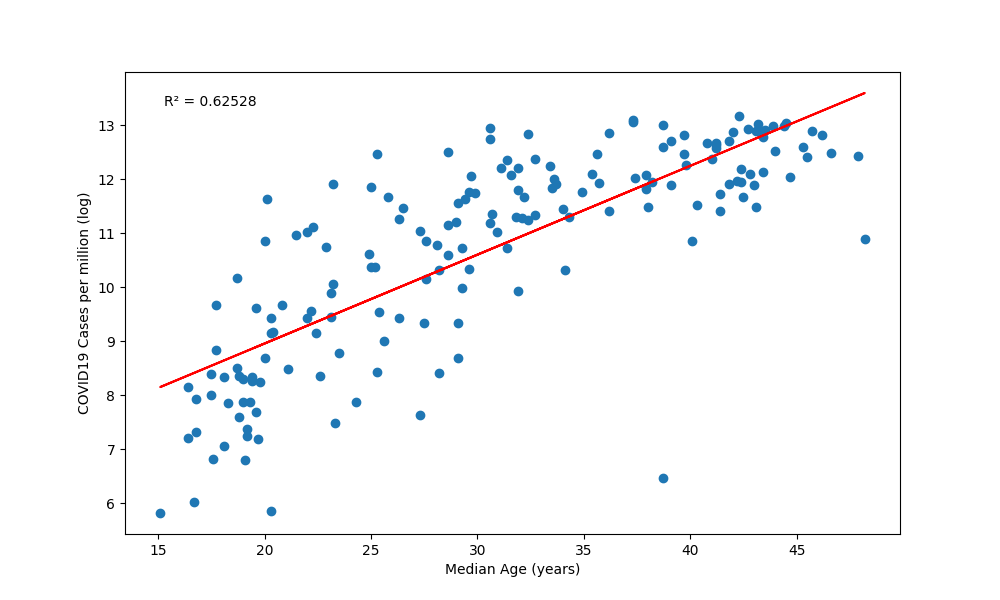
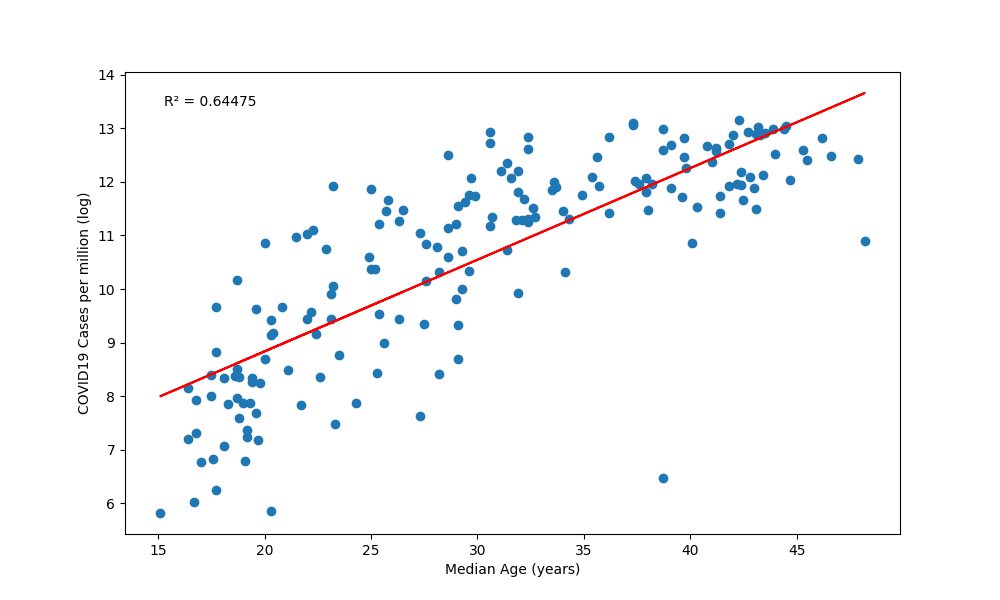
feat(ANALYSIS): Dynamic Date Changes - added clear_results.sh - re-selected countries - added country name mapping to git - changed setup_environment.sh

diff --git a/ANALYSIS/COUNTRIES.py b/ANALYSIS/COUNTRIES.py
@@ -1,1 +1,17 @@
-COUNTRIES = ['africa', 'albania', 'algeria', 'angola', 'antigua and barbuda', 'argentina', 'armenia', 'aruba', 'asia', 'australia', 'austria', 'azerbaijan', 'bahamas', 'bahrain', 'bangladesh', 'barbados', 'belarus', 'belgium', 'belize', 'benin', 'bhutan', 'bosnia and herzegovina', 'botswana', 'brazil', 'bulgaria', 'burkina faso', 'burundi', 'cambodia', 'cameroon', 'canada', 'central african republic', 'chad', 'chile', 'china', 'colombia', 'comoros', 'congo', 'costa rica', 'croatia', 'cuba', 'cyprus', 'czechia', 'denmark', 'djibouti', 'dominican republic', 'ecuador', 'egypt', 'el salvador', 'equatorial guinea', 'eritrea', 'estonia', 'eswatini', 'ethiopia', 'europe', 'fiji', 'finland', 'france', 'french guiana', 'french polynesia', 'gabon', 'gambia', 'georgia', 'germany', 'ghana', 'greece', 'grenada', 'guadeloupe', 'guam', 'guatemala', 'guinea', 'guinea-bissau', 'guyana', 'haiti', 'honduras', 'hungary', 'iceland', 'india', 'indonesia', 'iraq', 'ireland', 'israel', 'italy', 'jamaica', 'japan', 'jordan', 'kazakhstan', 'kenya', 'kiribati', 'kuwait', 'kyrgyzstan', 'latvia', 'lebanon', 'lesotho', 'liberia', 'libya', 'lithuania', 'luxembourg', 'madagascar', 'malawi', 'malaysia', 'maldives', 'mali', 'malta', 'martinique', 'mauritania', 'mauritius', 'mayotte', 'mexico', 'mongolia', 'montenegro', 'morocco', 'mozambique', 'myanmar', 'namibia', 'nepal', 'netherlands', 'new caledonia', 'new zealand', 'nicaragua', 'niger', 'nigeria', 'north macedonia', 'norway', 'oceania', 'oman', 'pakistan', 'panama', 'papua new guinea', 'paraguay', 'peru', 'philippines', 'poland', 'portugal', 'puerto rico', 'qatar', 'romania', 'rwanda', 'saint lucia', 'saint vincent and the grenadines', 'samoa', 'sao tome and principe', 'saudi arabia', 'senegal', 'serbia', 'seychelles', 'sierra leone', 'singapore', 'slovakia', 'slovenia', 'solomon islands', 'somalia', 'south africa', 'south america', 'south sudan', 'spain', 'sri lanka', 'sudan', 'suriname', 'sweden', 'switzerland', 'tajikistan', 'thailand', 'togo', 'tonga', 'trinidad and tobago', 'tunisia', 'turkey', 'turkmenistan', 'uganda', 'ukraine', 'united arab emirates', 'united kingdom', 'united states virgin islands', 'uruguay', 'uzbekistan', 'vanuatu', 'world', 'yemen', 'zambia', 'zimbabwe']
+import pandas as pd
+import os
+import sys
+
+sys.path.append(os.path.abspath(os.path.dirname(os.path.dirname(__file__))))
+
+COUNTRY_DATA = pd.read_csv("DATA/countries/country_names_map.csv")
+
+def mapping_name(name:str):
+    name = name.lower()
+    if name in COUNTRY_DATA['death_data'].values:
+        name = COUNTRY_DATA[COUNTRY_DATA['death_data'] == name]['Country'].values[0]
+    elif name in COUNTRY_DATA["location"].values:
+        name = COUNTRY_DATA[COUNTRY_DATA['location'] == name]['Country'].values[0]
+    elif name not in COUNTRY_DATA['Country'].values:
+        return None
+    return name

diff --git a/ANALYSIS/main.py b/ANALYSIS/main.py
@@ -10,51 +10,51 @@ from Plot_Population_Data import PLOT_POPULATION_DATA
 from Pop_Stat_Calculation import POP_STAT_CALCULATION
 from Plot_Pop_Stat import PLOT_POP_STAT
 from Plot_other_Metrics import PLOT_OTHER_METRICS
-
-COUNTRY_DATA_PATH = os.path.join(main_dir, 'Data\\countries\\country_names.csv')
+from Population_Data_For_Date import POPULATION_DATA_FOR_DATE
 
 class ANALYSIS:
     def __init__(self):
         self.REFERENCE_COUNTRY = 'japan'
-    def construct_countries(self):
-        data = pd.read_csv(COUNTRY_DATA_PATH).iloc[:, 0]
-        countries = []
-        for country in data:
-            if not country:
-                continue
-            countries.append(country.lower())
+        self.common_countries = []
 
-        with open(os.path.join(main_dir, 'ANALYSIS\\COUNTRIES.py'), 'w') as f:
-            f.write(f'COUNTRIES = {countries}')
+    @staticmethod
+    def create_country_population_data():
+        date = input("Date in YYYY or Press Enter to set year as 2020 : ")
+        if date == "":
+            date = '2020'
+        POPULATION_DATA_FOR_DATE(date)
 
-    def create_country_data(self):
+    @staticmethod
+    def create_country_covid_data():
         DATE_AS_PER_PAPER = '2022-04-08'
         date = input(f"Date in YYYY-MM-DD or Press Enter to set date as {DATE_AS_PER_PAPER} : ")
         if date == "":
             date = DATE_AS_PER_PAPER
         COVID_DATA_FOR_DATE(date)
 
-    def plot_population_data(self):
+    @staticmethod
+    def plot_population_data():
         plotter = PLOT_POPULATION_DATA()
         plotter.run()
+
+    def plot_other_metrics(self):
+        plotter = PLOT_OTHER_METRICS(self.common_countries)
+        plotter.MEDIAN_AGE()
+        plotter.GDP_PER_CAPITA()
+        plotter.POPULATION_DENSITY()
 
     def calculate_pop_stat(self):
         calculator = POP_STAT_CALCULATION()
         self.REFERENCE_COUNTRY = calculator.run()
+        self.common_countries = calculator.common_countries
 
     def plot_pop_stat(self):
         plotter = PLOT_POP_STAT(self.REFERENCE_COUNTRY)
         plotter.run()
 
-    def plot_other_metrics(self):
-        plotter = PLOT_OTHER_METRICS()
-        plotter.MEDIAN_AGE()
-        plotter.GDP_PER_CAPITA()
-        plotter.POPULATION_DENSITY()
-
     def run(self):
-        self.construct_countries()
-        self.create_country_data()
+        self.create_country_population_data()
+        self.create_country_covid_data()
         self.plot_population_data()
         self.calculate_pop_stat()
         self.plot_pop_stat()

diff --git a/ANALYSIS/Population_Data_For_Date.py b/ANALYSIS/Population_Data_For_Date.py
@@ -1,8 +1,3 @@
-"""
-NOT YET FULLY IMPLEMENTED
-    ISSUES : Country names in the population data and COVID data are not matching.
-           : Population data has other data like population of ASIA, EUROPE, etc.
-"""
 import pandas as pd
 import os
 import sys
@@ -11,17 +6,20 @@ main_dir = os.path.abspath(os.path.dirname(os.path.dirname(__file__)))
 
 sys.path.append(main_dir)
 
-from ANALYSIS.COUNTRIES import COUNTRIES
+from ANALYSIS.COUNTRIES import mapping_name
 
 age_data = pd.read_csv('Data\\population_data_with_age\\age_data.csv', low_memory = False)
-saving_dir = os.path.join(main_dir, "Data\\population_data")
+saving_dir = os.path.join(main_dir, "Data\\population_data_by_country")
 
-AGE_BRACKETS = 21
 
 def POPULATION_DATA_FOR_DATE(date):
     data = age_data[age_data['Time'] == int(date)]
-    for country in COUNTRIES:
-        data_new = data[data['Location'].str.lower() == country]
+    for country in data['Location'].unique():
+        pre_name = country
+        country = mapping_name(country)
+        if country is None:
+            continue
+        data_new = data[data['Location'] == pre_name]
         
         data_new = data_new.drop(columns = ['LocID'])
         data_new = data_new.drop_duplicates()
@@ -29,7 +27,7 @@ def POPULATION_DATA_FOR_DATE(date):
         data_new = data_new[['PopMale', 'PopFemale', 'PopTotal']]
         data_new.rename(columns = {'PopMale':'male', 'PopFemale':'female', 'PopTotal':'total'}, inplace = True)
 
-        data_new.to_csv(os.path.join(saving_dir, f'{country}_population_data.csv'), index = False)
+        data_new.to_csv(os.path.join(saving_dir, f'{country}_population.csv'), index = False)
         print(f"{country} data saved successfully for {date}")
         
 

diff --git a/ANALYSIS/Covid_Data_For_Date.py b/ANALYSIS/Covid_Data_For_Date.py
@@ -6,22 +6,25 @@ main_dir = os.path.abspath(os.path.dirname(os.path.dirname(__file__)))
 
 sys.path.append(main_dir)
 
+from ANALYSIS.COUNTRIES import mapping_name
+
 owid_covid_data = pd.read_csv('Data\\owid_covid_data\\owid-covid-data.csv', low_memory = False)
 saving_dir = os.path.join(main_dir, "Data\\covid_data_by_country")
 
-COUNTRIES = []
 
 def COVID_DATA_FOR_DATE(date):
+    count = 0
     data_per_date = owid_covid_data[owid_covid_data['date'] == date]
     for country in data_per_date['location'].unique():
         data_per_country = data_per_date[data_per_date['location'] == country]
-        COUNTRIES.append(country.lower())
+        pre_name = country
+        country = mapping_name(country)
+        if country is None:
+            print(f"Country not found in the mapping : {pre_name}")
+            continue
         data_per_country.to_csv(os.path.join(saving_dir, f'{country.lower()}_covid_data.csv'), index = False)
-        print(f"{country} data saved successfully for {date}")
-
-def save_countries():
-    with open('Analysis\\COUNTRIES.py', 'w') as f:
-        f.write(f'COUNTRIES = {COUNTRIES}')
+        print(f"{count}:{country} data saved successfully for {date}")
+        count += 1
 
 DATE_AS_PER_PAPER = '2022-04-08'
 
@@ -30,4 +33,3 @@ if __name__ == "__main__":
     if date == "":
         date = DATE_AS_PER_PAPER
     COVID_DATA_FOR_DATE(date)
-    save_countries()

diff --git a/ANALYSIS/Pop_Stat_Calculation.py b/ANALYSIS/Pop_Stat_Calculation.py
@@ -7,8 +7,6 @@ main_dir = os.path.abspath(os.path.dirname(os.path.dirname(__file__)))
 
 sys.path.append(main_dir)
 
-from ANALYSIS.COUNTRIES import COUNTRIES
-
 POPULATION_DIR = os.path.join(main_dir, 'Data\\population_data_by_country')
 COVID_DIR = os.path.join(main_dir, 'Data\\covid_data_by_country')
 RESULTS_DIR = os.path.join(main_dir, 'RESULTS\\POPSTAT_COUNTRY_DATA')
@@ -20,8 +18,6 @@ class POP_STAT_CALCULATION:
             if not file_name.endswith('.csv'):
                 continue
             country_name = file_name.split('_')[0]
-            if country_name.lower() not in COUNTRIES:
-                continue
             data = pd.read_csv(os.path.join(POPULATION_DIR, file_name))
             population_array = np.array(data['total']/data['total'].sum())
             self.population_data[country_name] = population_array
@@ -35,6 +31,8 @@ class POP_STAT_CALCULATION:
             total_deaths_per_million = data['total_deaths_per_million'].tolist()[0]
             total_cases_per_million = data['total_cases_per_million'].tolist()[0]
             self.covid_data[country_name] = total_deaths_per_million*1 + total_cases_per_million*0
+
+        self.common_countries = set(self.population_data.keys()) & set(self.covid_data.keys())
 
     def run(self):
         self.remove_nan_values()

diff --git a/ANALYSIS/Plot_other_Metrics.py b/ANALYSIS/Plot_other_Metrics.py
@@ -6,17 +6,14 @@ import numpy as np
 from scipy import stats
 
 main_dir = os.path.abspath(os.path.dirname(os.path.dirname(__file__)))
-
 sys.path.append(main_dir)
-
-from ANALYSIS.COUNTRIES import COUNTRIES
 
 COVID_DATA_DIR = os.path.join(main_dir, 'Data\\covid_data_by_country')
 SAVE_DIR = os.path.join(main_dir, 'RESULTS\\POPSTATCOVID\\OTHER_METRICS')
 
 class PLOT_OTHER_METRICS:
-    def __init__(self):
-        self.countries = COUNTRIES
+    def __init__(self, countries):
+        self.countries = countries
         self.Y_CASES = []
         self.Y_DEATHS = []
         for country in self.countries:
